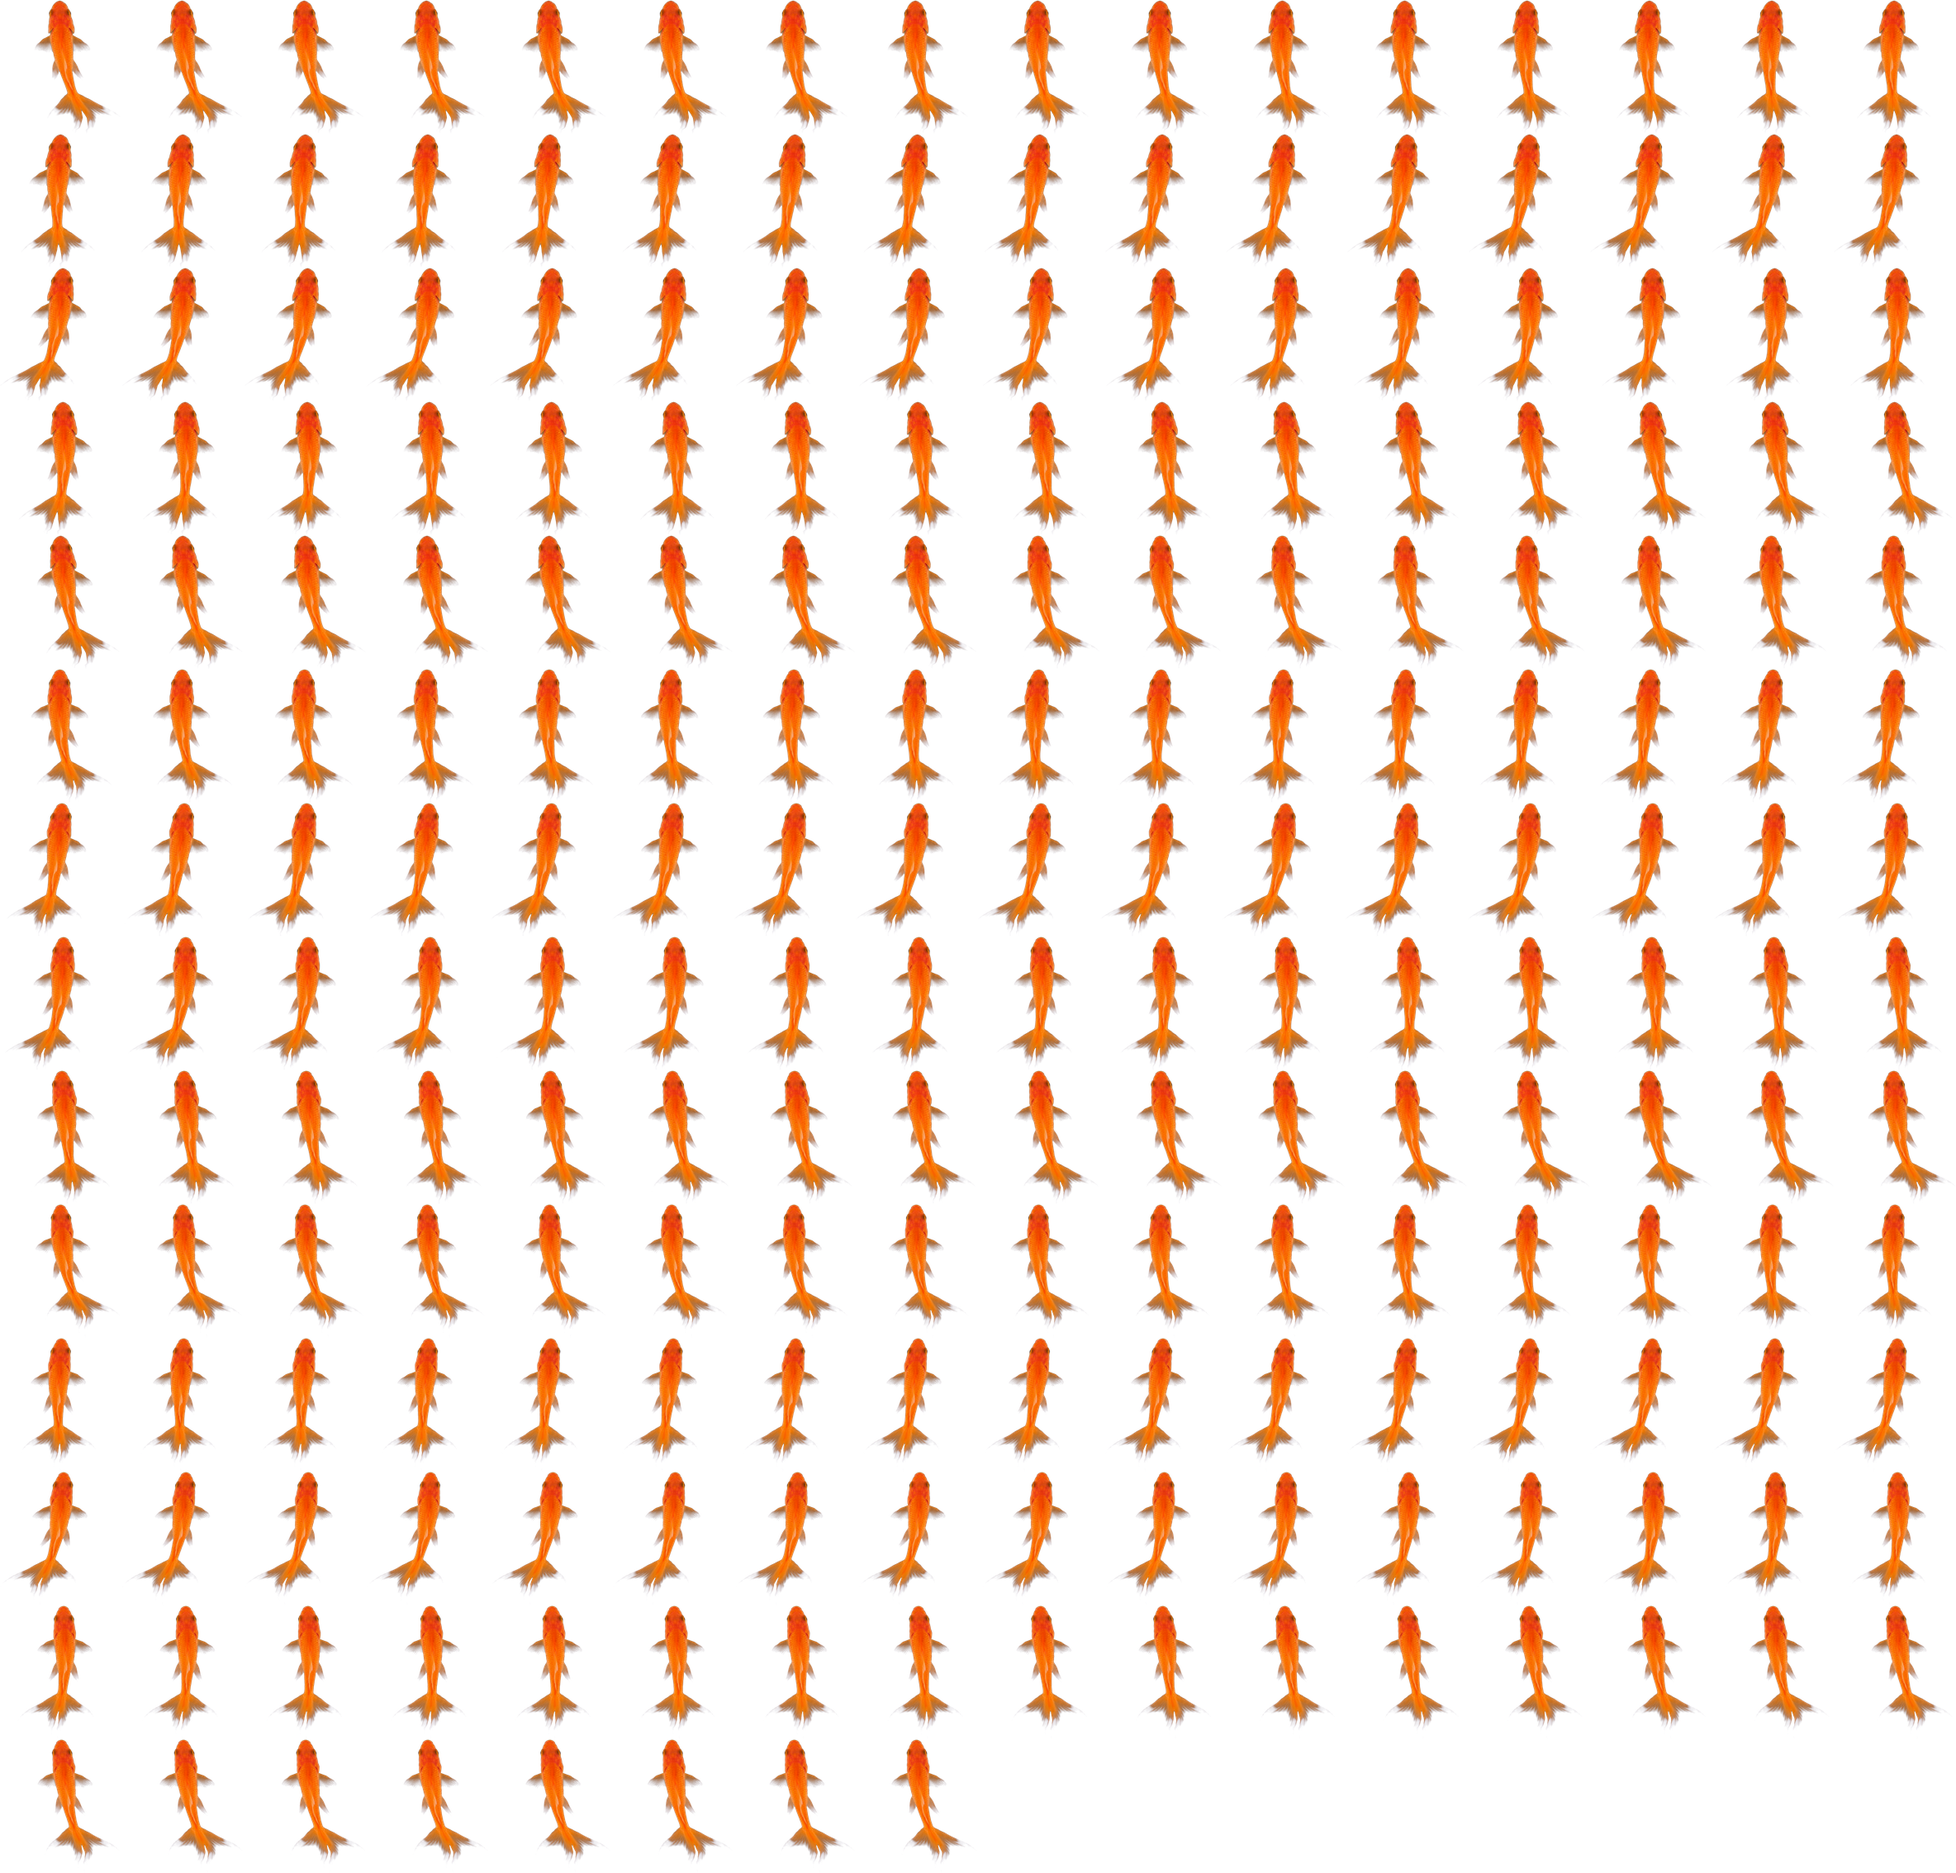
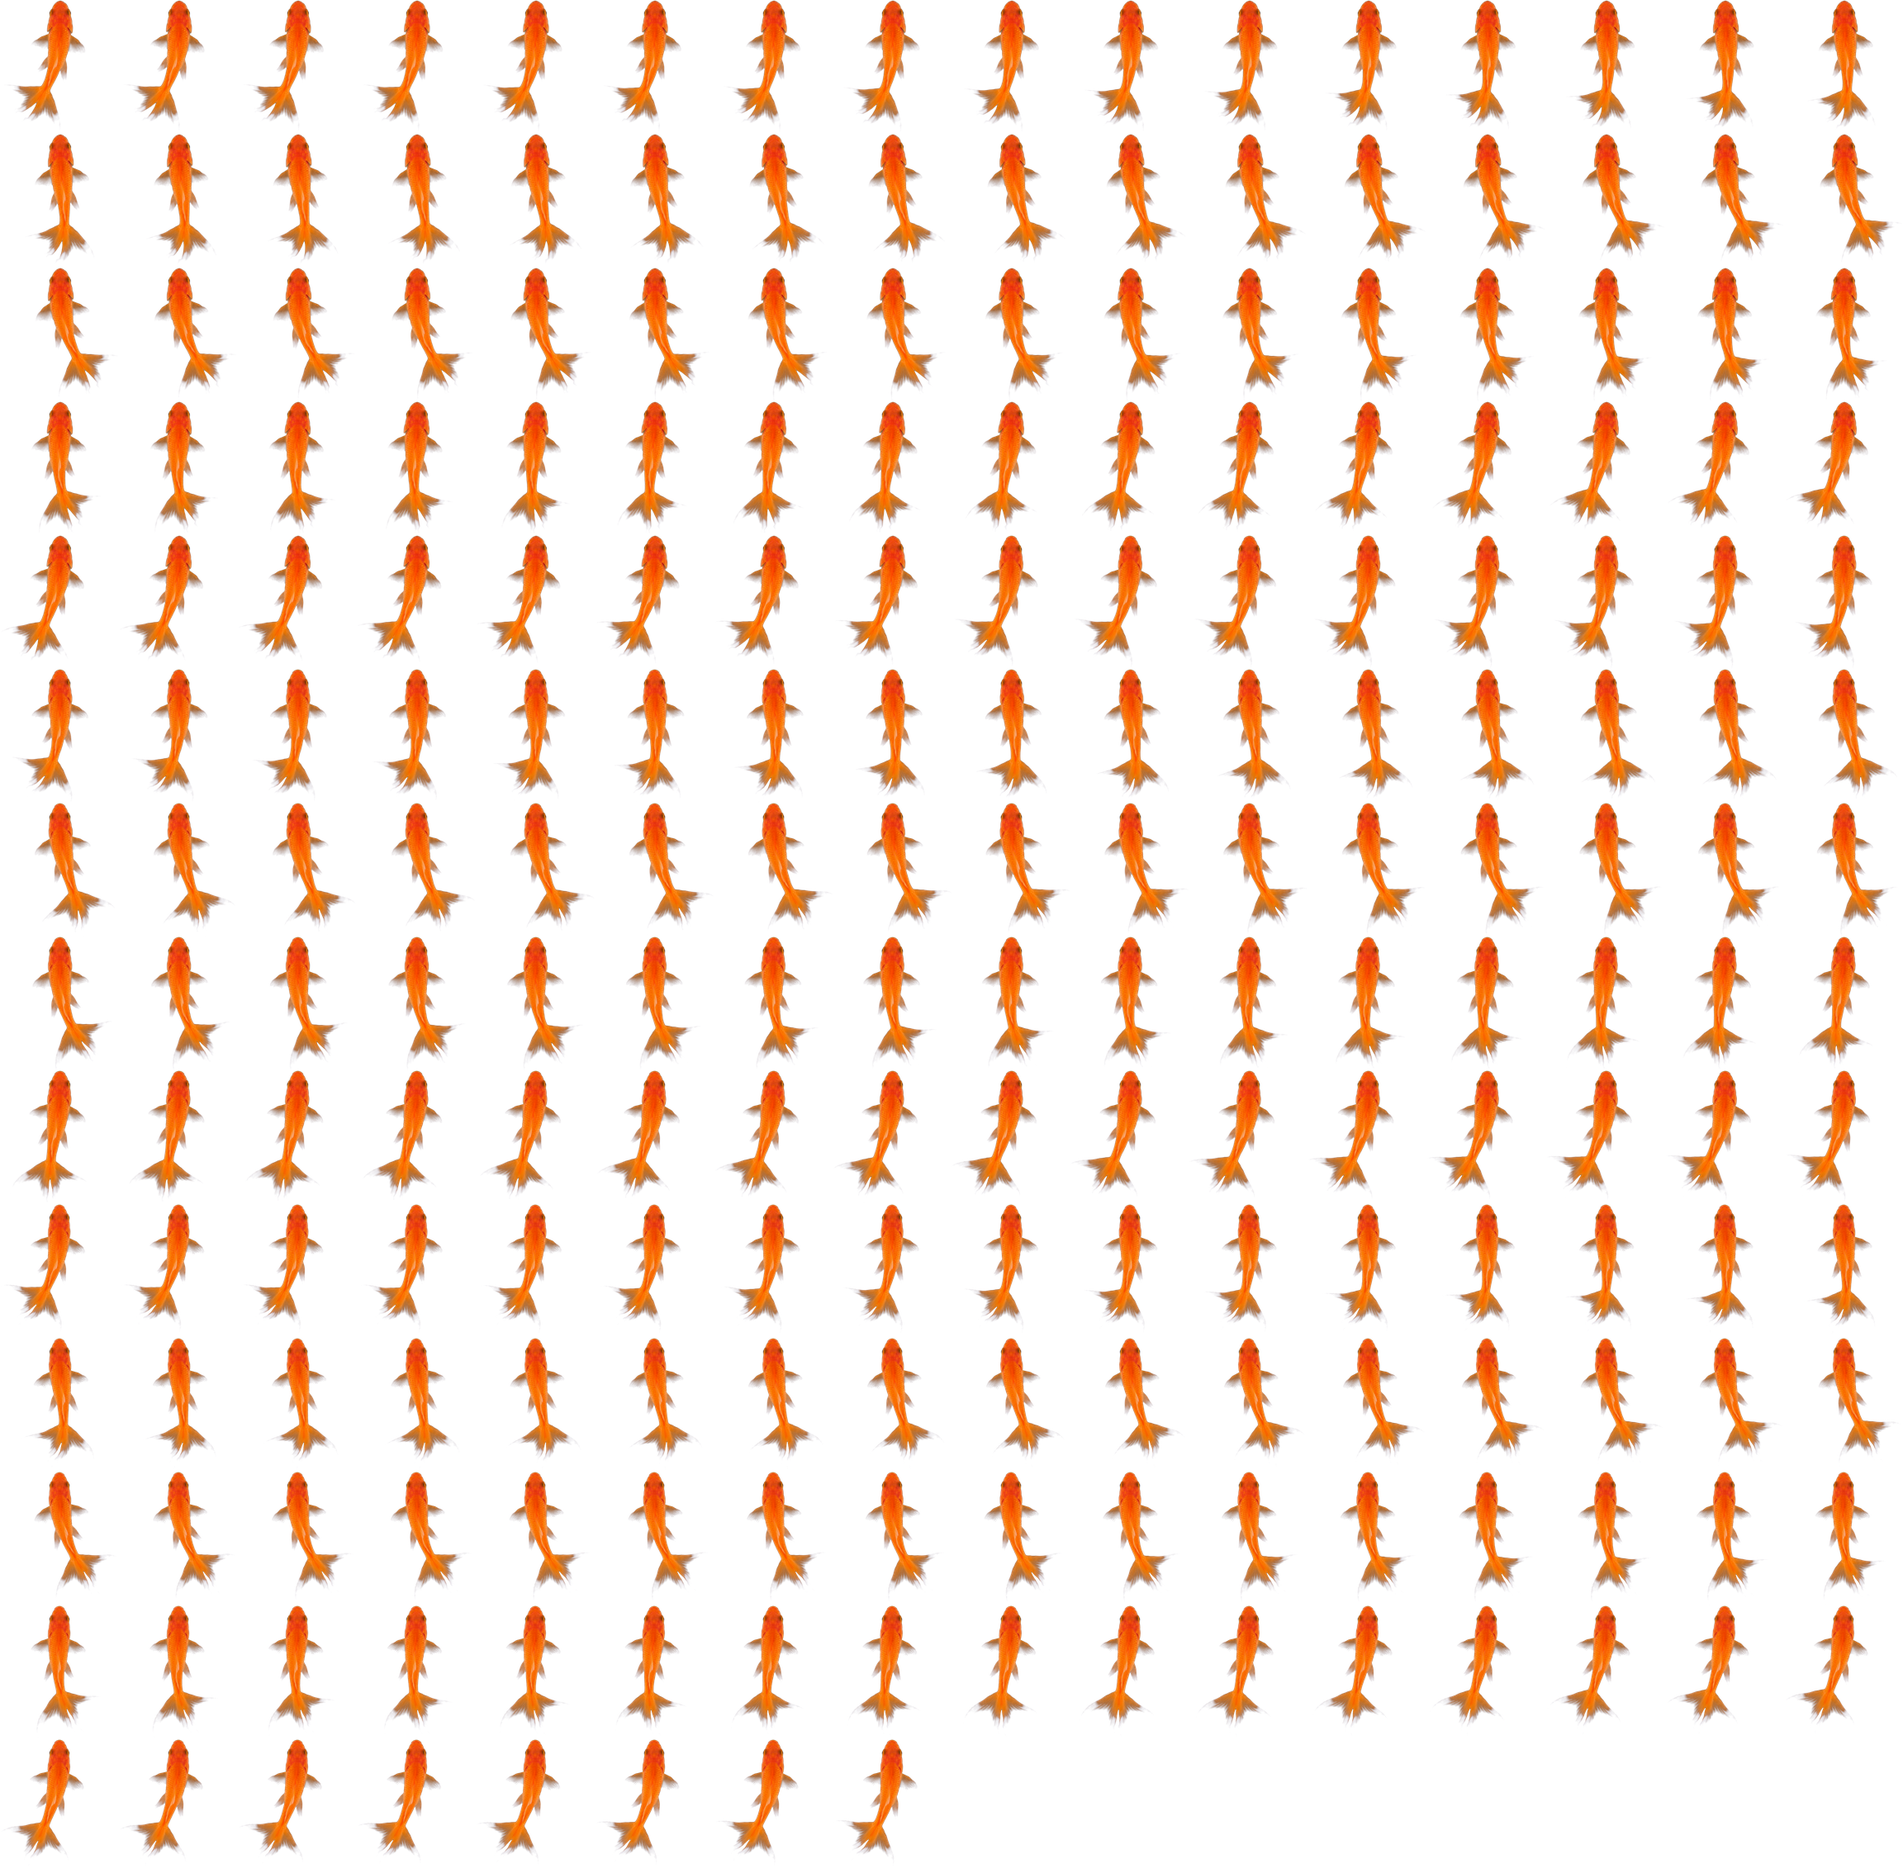
07 금붕어 척추 회전 워프(gf_spine): 원본 수준의 유연한 회전 휨(THETA 0.85), 루프 무이음 (ASSET_VER=41, v=85)

Changed region(s): [[0.0, 0.3086, 1.0, 0.9877], [0.0, 0.0, 1.0, 0.2778]]

diff --git a/07_water_trace_goldfish/app.js b/07_water_trace_goldfish/app.js
@@ -27,7 +27,7 @@
   // 배경 데이터 절대 경로 = fractal_capture 폴더 (bg_build.py 가 assets/bg/ 로 최적화 복사 +
   //   assets/bg-manifest.json 생성). 앱은 매니페스트의 모든 이미지를 이름순 크로스페이드 재생.
   //   동영상(manifest.videos)은 V 키로 영상 배경 토글.  bg 갱신 시 BG_VER 올려 캐시 무효화.
-  const ASSET_VER = "40";   // 단일 매끈 워프(지느러미 필드 OFF + 위상 기울기 테이퍼)
+  const ASSET_VER = "41";   // 척추 회전 워프(gf_spine) — 유연한 회전 휨
   const BG_VER = "4";
   let SLIDE_HOLD_MS = 0;               // 각 장면 추가 표시 시간(▲/▼ 방향키 ±1초, 기본 0초)
   const SLIDE_FADE_MS = 1600;          // 크로스페이드 시간

diff --git a/07_water_trace_goldfish/index.html b/07_water_trace_goldfish/index.html
@@ -102,6 +102,6 @@
   })();
   </script>
 
-  <script src="app.js?v=84"></script>
+  <script src="app.js?v=85"></script>
 </body>
 </html>
